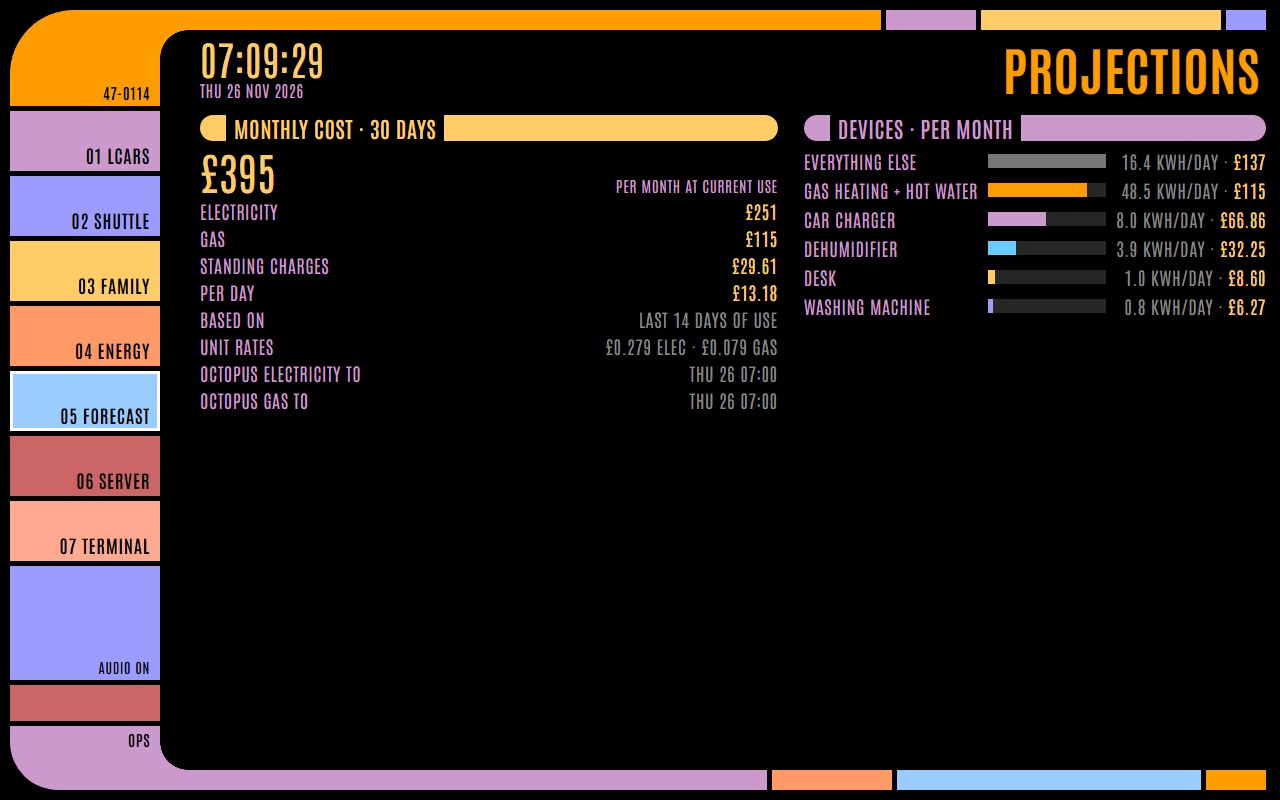
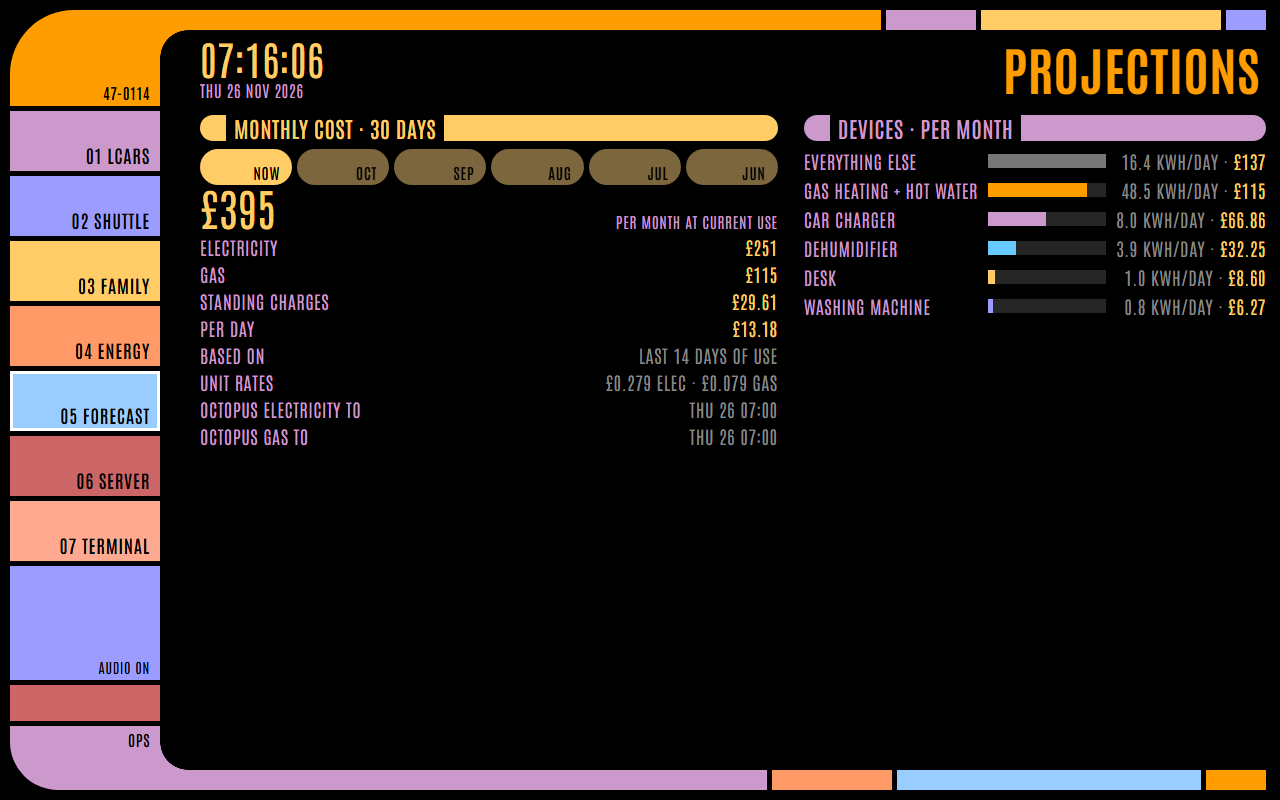
LCARS demo: forecast page compares past months with Octopus

Changed region(s): [[0.1562, 0.1875, 0.625, 0.5625], [0.1875, 0.0625, 0.25, 0.0938]]

diff --git a/lcars/tablet-panels.js b/lcars/tablet-panels.js
@@ -283,6 +283,62 @@ function tpForecastModel(cfg, day, hour, states, now, monthDays) {
   };
 }
 
+// ---- A past calendar month: same calculation, compared with Octopus -------------
+// hour: hourly stats covering [start, end); mon: monthly stats (Octopus kWh and cost).
+// Devices are costed at today's unit rates, like the forecast; "Octopus" is the cost Octopus
+// recorded for that month's units. Standing charges use today's daily rate for both.
+function tpMonthModel(cfg, hour, mon, states, start, end) {
+  var num = function (id) { var s = id && states[id]; var v = s ? parseFloat(s.state) : NaN; return isNaN(v) ? null : v; };
+  var ms = function (x) { return typeof x.start === 'number' ? x.start : Date.parse(x.start); };
+  var DY = 864e5, inM = function (t) { return t >= start && t < end; };
+  var days = Math.round((end - start) / DY);
+  var rateE = num(cfg.elec.rate), rateG = num(cfg.gas.rate);
+  if (rateE == null) rateE = 0.28;
+  if (rateG == null) rateG = 0.07;
+  var stE = num(cfg.elec.standing) || 0, stG = num(cfg.gas.standing) || 0;
+  var series = function (id, f) { var o = {}; (hour[id] || []).forEach(function (x) { var t = ms(x), v = f(x); if (v != null && inM(t)) o[t] = v; }); return o; };
+  var chg = function (cap) { return function (x) { return x.change == null ? null : Math.min(cap, Math.max(0, x.change)); }; };
+  var total = function (o) { var s = 0; Object.keys(o).forEach(function (t) { s += o[t]; }); return s; };
+  var first = function (o) { var k = Object.keys(o).map(Number); return k.length ? Math.min.apply(null, k) : null; };
+  var mval = function (id) {   // Octopus monthly figure for this month
+    var v = null; (mon[id] || []).forEach(function (x) { if (inM(ms(x)) && x.change != null) v = (v || 0) + x.change; }); return v;
+  };
+
+  var houseE = series(cfg.elec.kwh, chg(1e9)), houseG = series(cfg.gas.kwh, chg(1e9));
+  var houseKwh = total(houseE), gasKwh = total(houseG), houseFirst = first(houseE);
+  var devices = [], plugsInHouse = 0, plugs = 0;
+  (cfg.devices || []).forEach(function (d) {
+    var cap = d.max_kw || 10;
+    var ser = d.energy ? series(d.energy, chg(cap))
+      : series(d.power, function (x) { return x.mean == null ? null : Math.min(cap, Math.max(0, x.mean * (d.kw ? 1 : 0.001))); });
+    var k = Object.keys(ser);
+    if (!k.length) { devices.push({ name: d.name, color: d.color, kwh: null, cost: null }); return; }
+    var kwh = total(ser);
+    k.forEach(function (t) { if (houseE[t] != null) plugsInHouse += ser[t]; });
+    plugs += kwh;
+    var f0 = first(ser);
+    devices.push({ name: d.name, color: d.color, kwh: kwh, cost: kwh * rateE, since: f0 > start + DY ? f0 : null });
+  });
+  var rest = Object.keys(houseE).length ? Math.max(0, houseKwh - plugsInHouse) : null;
+  devices.push({ name: 'Everything else', color: '#777', kwh: rest, cost: rest == null ? null : rest * rateE });
+  devices.push({ name: 'Gas heating + hot water', color: '#ff9c00', kwh: Object.keys(houseG).length ? gasKwh : null,
+    cost: Object.keys(houseG).length ? gasKwh * rateG : null });
+  devices.sort(function (a, b) { return (b.cost || 0) - (a.cost || 0); });
+
+  var standing = (stE + stG) * days;
+  var calcE = Math.max(houseKwh, plugs) * rateE, calcG = gasKwh * rateG;
+  var octE = mval(cfg.elec.cost), octG = mval(cfg.gas.cost), octEk = mval(cfg.elec.kwh), octGk = mval(cfg.gas.kwh);
+  var octTotal = octE == null && octG == null ? null : (octE || 0) + (octG || 0) + standing;
+  var calcTotal = calcE + calcG + standing;
+  return {
+    start: start, end: end, days: days, devices: devices, rateE: rateE, rateG: rateG, standing: standing,
+    calc: { elec: calcE, gas: calcG, total: calcTotal },
+    octopus: { elec: octE, gas: octG, total: octTotal, rateE: octE != null && octEk ? octE / octEk : null, rateG: octG != null && octGk ? octG / octGk : null },
+    diff: octTotal == null ? null : calcTotal - octTotal,
+    cover: Object.keys(houseE).length / (days * 24), houseFrom: houseFirst != null && houseFirst > start + DY ? houseFirst : null,
+  };
+}
+
 // ---- Sound: everything is synthesised with Web Audio, no sound files ------
 var tpAudio = {
   ctx: null,
@@ -815,6 +871,9 @@ button:active { filter:brightness(1.35); }
 .mbar { display:block; height:14px; background:#262626; position:relative; }
 .mbar i { position:absolute; top:0; bottom:0; left:0; }
 .bars .v .dim { color:#888; } .bars .k em { color:#ffcc66; font-style:normal; }
+.cmp { display:grid; grid-template-columns:1fr auto auto; gap:3px 18px; font-size:18px; margin:4px 0 8px; }
+.cmp .h { color:#888; font-size:14px; text-align:right; } .cmp .k { color:#cc99cc; } .cmp .k.t { color:#ff9c00; }
+.cmp .v { color:#ffcc66; text-align:right; font-variant-numeric:tabular-nums; }
 .ctr { display:grid; grid-template-columns:1fr auto auto; gap:2px 14px; font-size:17px; }
 .ctr .cn { color:#ff9c00; white-space:nowrap; overflow:hidden; text-overflow:ellipsis; min-width:0; }
 .ctr .cv { color:#ffcc66; text-align:right; font-variant-numeric:tabular-nums; white-space:nowrap; }
@@ -988,6 +1047,14 @@ class LcarsPanelCard extends TabletPanelBase {
 
   _ui(what) {
     if (what.indexOf('car:') === 0) { this._carAction(what.split(':')[1], what.split(':')[2]); return; }
+    if (what.indexOf('fc:m:') === 0) {   // forecast page: 'now' or a past month's start time
+      var sel = what.slice(5);
+      this._fcSel = sel === 'now' ? null : +sel;
+      if (this._fcSel) this._fcFetchMonth(this._fcSel);
+      if (this._audioOn) tpAudio.seq(LCARS_SFX.tap, 'triangle', 0.2);
+      this._render();
+      return;
+    }
     if (what.indexOf('en:days:') === 0) {
       var nd = +what.split(':')[2];
       if ([1, 7, 30].indexOf(nd) < 0 || nd === this._enDays()) return;
@@ -1281,6 +1348,47 @@ class LcarsPanelCard extends TabletPanelBase {
     return this._enDaysV;
   }
 
+  // Forecast page: which past months Octopus has figures for (up to 6), checked hourly.
+  _fcFetchMonths() {
+    var e = this._config.energy, self = this;
+    if (!e || this._fcMonBusy || !this._hass || !this._hass.callWS) return;
+    this._fcMonBusy = true;
+    var now = new Date(), from = new Date(now.getFullYear(), now.getMonth() - 6, 1), thisM = new Date(now.getFullYear(), now.getMonth(), 1).getTime();
+    this._hass.callWS({ type: 'recorder/statistics_during_period', start_time: from.toISOString(), end_time: new Date(thisM).toISOString(),
+      statistic_ids: [e.elec.cost, e.gas.cost], period: 'month', types: ['change'] })
+      .then(function (r) {
+        var seen = {};
+        [e.elec.cost, e.gas.cost].forEach(function (id) {
+          ((r || {})[id] || []).forEach(function (x) {
+            var t = typeof x.start === 'number' ? x.start : Date.parse(x.start), d = new Date(t + 12 * 36e5);   // noon: dodge DST edges
+            if (x.change) seen[d.getFullYear() + '-' + (d.getMonth() + 1)] = new Date(d.getFullYear(), d.getMonth(), 1).getTime();
+          });
+        });
+        self._fcMon = { list: Object.keys(seen).map(function (k) { return seen[k]; }).sort(function (a, b) { return b - a; }), at: Date.now() };
+      })
+      .catch(function () { self._fcMon = { list: (self._fcMon || {}).list || [], at: Date.now() }; })
+      .then(function () { self._fcMonBusy = false; if (self._config.page === 'forecast') self._render(); });
+  }
+
+  // Forecast page: the hourly and monthly history for one past month (kept for an hour).
+  _fcFetchMonth(start) {
+    var e = this._config.energy, self = this;
+    this._fcData = this._fcData || {};
+    var have = this._fcData[start];
+    if (!e || (have && (have.busy || Date.now() - have.at < 36e5)) || !this._hass || !this._hass.callWS) return;
+    this._fcData[start] = { busy: true, at: 0, hour: have && have.hour, mon: have && have.mon };
+    var d = new Date(start), end = new Date(d.getFullYear(), d.getMonth() + 1, 1).getTime();
+    var hourIds = [e.elec.kwh, e.gas.kwh].concat((e.devices || []).map(function (x) { return x.energy || x.power; }));
+    var q = function (ids, period) {
+      return self._hass.callWS({ type: 'recorder/statistics_during_period', start_time: new Date(start).toISOString(), end_time: new Date(end).toISOString(),
+        statistic_ids: ids, period: period, types: ['change', 'mean'] });
+    };
+    Promise.all([q(hourIds, 'hour'), q([e.elec.kwh, e.elec.cost, e.gas.kwh, e.gas.cost], 'month')])
+      .then(function (r) { self._fcData[start] = { hour: r[0] || {}, mon: r[1] || {}, at: Date.now() }; })
+      .catch(function () { self._fcData[start] = { hour: {}, mon: {}, at: Date.now(), err: true }; })
+      .then(function () { if (self._config.page === 'forecast') self._render(); });
+  }
+
   _fetchEnergy() {
     var e = this._config.energy, self = this;
     if (!e || this._enBusy || !this._hass || !this._hass.callWS) return;
@@ -1382,8 +1490,8 @@ class LcarsPanelCard extends TabletPanelBase {
     }
     var states = {};
     this._energyIds().forEach(function (id) { if (self._st(id)) states[id] = self._st(id); });
-    var f = tpForecastModel(e, this._en.day, this._en.hour, states, new Date());
     var MON = ['JAN', 'FEB', 'MAR', 'APR', 'MAY', 'JUN', 'JUL', 'AUG', 'SEP', 'OCT', 'NOV', 'DEC'];
+    var MONTHS = ['January', 'February', 'March', 'April', 'May', 'June', 'July', 'August', 'September', 'October', 'November', 'December'];
     var DAYS = ['SUN', 'MON', 'TUE', 'WED', 'THU', 'FRI', 'SAT'];
     var gbp = function (v) { return v == null || isNaN(v) ? '--' : '£' + (v >= 100 ? Math.round(v) : v.toFixed(2)); };
     var kwh = function (v) { return v == null ? '--' : (v >= 100 ? Math.round(v) : v.toFixed(1)) + ' KWH'; };
@@ -1393,6 +1501,64 @@ class LcarsPanelCard extends TabletPanelBase {
         return '<span class="k">' + esc(r[0]) + '</span><span class="v' + (r[2] ? ' ' + r[2] : '') + '">' + esc(r[1]) + '</span>';
       }).join('') + '</div>';
     };
+    var bars = function (list, val) {
+      var mx = 0; list.forEach(function (r) { mx = Math.max(mx, r.cost || 0); });
+      return '<div class="bars">' + list.map(function (r) {
+        var pct = mx && r.cost != null ? r.cost / mx * 100 : 0;
+        return '<span class="k">' + esc(r.name) + (r.since ? ' <em>*</em>' : '') + '</span>' +
+          '<span class="mbar"><i style="width:' + Math.min(100, pct) + '%;background:' + (r.color || '#99ccff') + '"></i></span>' +
+          '<span class="v">' + (r.cost == null ? '<span class="dim">NO DATA</span>' : val(r)) + '</span>';
+      }).join('') + '</div>';
+    };
+    var sinceNote = function (list) {
+      var s = list.filter(function (r) { return r.since; });
+      if (!s.length) return '';
+      var d0 = new Date(Math.min.apply(null, s.map(function (r) { return r.since; })));
+      return kv([['* Fewer readings', 'ONLY SINCE ' + d0.getDate() + ' ' + MON[d0.getMonth()], 'dim']]);
+    };
+
+    // Month buttons: now, then past months Octopus has figures for.
+    var past = (this._fcMon && this._fcMon.list) || [], sel = this._fcSel && past.indexOf(this._fcSel) >= 0 ? this._fcSel : null;
+    var chip = function (label, ui, on) {
+      return '<button class="b' + (on ? '' : ' off') + '" data-ui="fc:m:' + ui + '" style="background:' + LC[3] + '"><span class="l">' + label + '</span></button>';
+    };
+    var chips = past.length ? '<div class="chips">' + chip('Now', 'now', !sel) +
+      past.slice(0, 5).map(function (t) { return chip(MON[new Date(t).getMonth()], t, sel === t); }).join('') + '</div>' : '';
+
+    if (sel) {
+      var pd = this._fcData && this._fcData[sel];
+      if (!pd || !pd.hour) {
+        if (!pd) this._fcFetchMonth(sel);
+        return [{ title: MONTHS[new Date(sel).getMonth()] + ' ' + new Date(sel).getFullYear(), color: LC[3],
+          html: chips + kv([['Status', 'LOADING HISTORY...']]) }];
+      }
+      var dd = new Date(sel), endT = new Date(dd.getFullYear(), dd.getMonth() + 1, 1).getTime();
+      var p = tpMonthModel(e, pd.hour, pd.mon, states, sel, endT);
+      var diffTxt = p.diff == null ? '--' : (p.diff >= 0 ? '+' : '−') + gbp(Math.abs(p.diff)) +
+        (p.octopus.total ? ' (' + (p.diff >= 0 ? '+' : '−') + Math.abs(p.diff / p.octopus.total * 100).toFixed(1) + '%)' : '');
+      var cmp = '<div class="cmp"><span></span><span class="h">CALCULATED</span><span class="h">OCTOPUS</span>' +
+        [['Electricity', p.calc.elec, p.octopus.elec], ['Gas', p.calc.gas, p.octopus.gas], ['Standing charges', p.standing, p.standing],
+          ['Total', p.calc.total, p.octopus.total]].map(function (r) {
+          return '<span class="k' + (r[0] === 'Total' ? ' t' : '') + '">' + esc(r[0]) + '</span><span class="v">' + gbp(r[1]) + '</span><span class="v">' + gbp(r[2]) + '</span>';
+        }).join('') + '</div>';
+      var rows = [
+        ['Difference', diffTxt, p.diff == null ? '' : Math.abs(p.diff) > 5 ? 'warn' : 'hi'],
+        ['Unit rates used', '£' + p.rateE.toFixed(3) + ' ELEC · £' + p.rateG.toFixed(3) + ' GAS', 'dim'],
+        ['Octopus average', (p.octopus.rateE ? '£' + p.octopus.rateE.toFixed(3) : '--') + ' ELEC · ' + (p.octopus.rateG ? '£' + p.octopus.rateG.toFixed(3) : '--') + ' GAS', 'dim'],
+        ['Standing charges at', "TODAY'S RATE", 'dim']];
+      if (p.houseFrom) rows.push(['Octopus data from', when(p.houseFrom), 'warn']);
+      else if (p.cover < 0.97) rows.push(['Octopus hours', Math.round(p.cover * 100) + '% OF MONTH', 'warn']);
+      if (pd.err) rows.push(['Note', 'HISTORY MAY BE INCOMPLETE', 'warn']);
+      var title = MONTHS[dd.getMonth()] + ' ' + dd.getFullYear();
+      return [
+        { title: title + ' · ' + p.days + ' days', html: chips + '<div class="entop"><span class="big">' + gbp(p.calc.total) +
+          '</span><span class="ensrc">CALCULATED · OCTOPUS ' + gbp(p.octopus.total) + '</span></div>' + cmp + kv(rows), color: LC[3] },
+        { title: 'Devices · ' + title.toLowerCase(), color: LC[1], column: 2,
+          html: bars(p.devices, function (r) { return '<span class="dim">' + kwh(r.kwh) + ' · </span>' + gbp(r.cost); }) + sinceNote(p.devices) },
+      ];
+    }
+
+    var f = tpForecastModel(e, this._en.day, this._en.hour, states, new Date());
 
     // Summary
     var notes = [['Electricity', gbp(f.elecCost)], ['Gas', gbp(f.gasCost)], ['Standing charges', gbp(f.standing)],
@@ -1402,22 +1568,10 @@ class LcarsPanelCard extends TabletPanelBase {
     if (f.houseAsOf) notes.push(['Octopus electricity to', when(f.houseAsOf), 'dim']);
     if (f.gasAsOf) notes.push(['Octopus gas to', when(f.gasAsOf), 'dim']);
     if (this._en.err) notes.push(['Note', 'HISTORY MAY BE STALE', 'warn']);
-    var sum = '<div class="entop"><span class="big">' + gbp(f.total) + '</span><span class="ensrc">PER MONTH AT CURRENT USE</span></div>' + kv(notes);
+    var sum = chips + '<div class="entop"><span class="big">' + gbp(f.total) + '</span><span class="ensrc">PER MONTH AT CURRENT USE</span></div>' + kv(notes);
 
     // Devices: monthly cost, with the daily use behind it.
-    var mx = 0; f.devices.forEach(function (r) { mx = Math.max(mx, r.cost || 0); });
-    var dev = '<div class="bars">' + f.devices.map(function (r) {
-      var pct = mx && r.cost != null ? r.cost / mx * 100 : 0;
-      return '<span class="k">' + esc(r.name) + (r.since ? ' <em>*</em>' : '') + '</span>' +
-        '<span class="mbar"><i style="width:' + Math.min(100, pct) + '%;background:' + (r.color || '#99ccff') + '"></i></span>' +
-        '<span class="v">' + (r.cost == null ? '<span class="dim">NO DATA</span>' :
-          '<span class="dim">' + kwh(r.perDay) + '/DAY · </span>' + gbp(r.cost)) + '</span>';
-    }).join('') + '</div>';
-    var since = f.devices.filter(function (r) { return r.since; });
-    if (since.length) {
-      var d0 = new Date(Math.min.apply(null, since.map(function (r) { return r.since; })));
-      dev += kv([['* Fewer readings', 'ONLY SINCE ' + d0.getDate() + ' ' + MON[d0.getMonth()], 'dim']]);
-    }
+    var dev = bars(f.devices, function (r) { return '<span class="dim">' + kwh(r.perDay) + '/DAY · </span>' + gbp(r.cost); }) + sinceNote(f.devices);
 
     return [
       { title: 'Monthly cost · ' + f.days + ' days', html: sum, color: LC[3] },
@@ -1543,6 +1697,7 @@ class LcarsPanelCard extends TabletPanelBase {
     var root = this.shadowRoot, self = this;
     if (this._config && this._config.page === 'server' && (!this._ctr || Date.now() - this._ctr.at > 15000)) this._fetchContainers();
     if (this._config && this._enPage() && this._hass && (!this._en || Date.now() - this._en.at > 600000)) this._fetchEnergy();
+    if (this._config && this._config.page === 'forecast' && this._hass && (!this._fcMon || Date.now() - this._fcMon.at > 36e5)) this._fcFetchMonths();
     if (this._config && this._config.page === 'car' && this._hass && (!this._cc || Date.now() - this._cc.at > 600000)) this._fetchCarCost();
     // Map made while hidden: resize and refit once it is actually on screen.
     if (this._map && this._mapBox) {

diff --git a/lcars/index.html b/lcars/index.html
@@ -48,11 +48,14 @@
     var day = Math.max(5, 80 - 4.5 * T); return gasProfile[h] / 20.2 * day * (0.85 + rnd(i * 11) * 0.3); }
 
   var RATE_E = 0.2786, RATE_G = 0.0791;
+  // Unit rates were a little lower in earlier months, so past months differ from today's prices.
+  function monthsAgo(t) { var a = new Date(), b = new Date(t); return (a.getFullYear() - b.getFullYear()) * 12 + a.getMonth() - b.getMonth(); }
+  function rateAt(base, t) { return base * (1 - 0.015 * Math.min(6, monthsAgo(t))); }
   var series = {
     'demo:elec_kwh': function (t) { return { change: elecAt(t) }; },
-    'demo:elec_cost': function (t) { return { change: elecAt(t) * RATE_E }; },
+    'demo:elec_cost': function (t) { return { change: elecAt(t) * rateAt(RATE_E, t) }; },
     'demo:gas_kwh': function (t) { return { change: gasAt(t) }; },
-    'demo:gas_cost': function (t) { return { change: gasAt(t) * RATE_G }; },
+    'demo:gas_cost': function (t) { return { change: gasAt(t) * rateAt(RATE_G, t) }; },
     'sensor.demo_outdoor': function (t) { return { mean: tempAt(t) }; },
     'sensor.demo_charger_power': function (t) { return { mean: devAt('car', t) }; },
     'sensor.washer_energy': function (t) { return { change: devAt('wash', t) }; },
@@ -61,8 +64,21 @@
   };
   // Answers recorder/statistics_during_period from the series above.
   function stats(m) {
-    var hourly = m.period !== 'day', out = {};
-    var start = Date.parse(m.start_time), end = Date.now();
+    var hourly = m.period === 'hour', out = {};
+    var start = Date.parse(m.start_time), end = Math.min(Date.now(), m.end_time ? Date.parse(m.end_time) : Infinity);
+    if (m.period === 'month') {   // calendar months, summed from the hourly series
+      m.statistic_ids.forEach(function (id) {
+        var f = series[id]; if (!f) return;
+        var rows = [], d = new Date(start); d.setDate(1); d.setHours(0, 0, 0, 0);
+        for (; d.getTime() < end; d = new Date(d.getFullYear(), d.getMonth() + 1, 1)) {
+          var m0 = d.getTime(), m1 = Math.min(end, new Date(d.getFullYear(), d.getMonth() + 1, 1).getTime()), ch = 0;
+          for (var t = m0; t + HOUR <= m1; t += HOUR) { var v = f(t); if (v.change != null) ch += v.change; }
+          rows.push({ start: m0, end: m1, change: ch });
+        }
+        out[id] = rows;
+      });
+      return out;
+    }
     m.statistic_ids.forEach(function (id) {
       var f = series[id]; if (!f) return;
       var rows = [];

diff --git a/posts/lcars-dashboard.html b/posts/lcars-dashboard.html
@@ -28,7 +28,7 @@
   <li>Car: charge level, charge limit, defrost, departure times, tyres and locks, and how much home charging has cost since payday</li>
   <li>Family: a map showing where everyone is, how far from home and whether they're heading back</li>
   <li>Energy: today's cost (estimated, because the meter data arrives a day or two late), 30 days of electricity and gas, which devices use the most over the last day, week or month, and the biggest spikes</li>
-  <li>Forecast: what each device would cost over a whole month at its recent rate of use</li>
+  <li>Forecast: what each device would cost over a whole month at its recent rate of use, and for past months what each device actually used, with the total set against what Octopus charged</li>
   <li>Server: CPU, memory, disks and Docker containers on the home server</li>
   <li>Terminal: the same controls in a green-screen terminal style</li>
 </ul>

diff --git a/drafts/lcars-dashboard.md b/drafts/lcars-dashboard.md
@@ -23,7 +23,7 @@ The buttons down the left side switch between pages.
 - Car: charge level, charge limit, defrost, departure times, tyres and locks, and how much home charging has cost since payday
 - Family: a map showing where everyone is, how far from home and whether they're heading back
 - Energy: today's cost (estimated, because the meter data arrives a day or two late), 30 days of electricity and gas, which devices use the most over the last day, week or month, and the biggest spikes
-- Forecast: what each device would cost over a whole month at its recent rate of use
+- Forecast: what each device would cost over a whole month at its recent rate of use, and for past months what each device actually used, with the total set against what Octopus charged
 - Server: CPU, memory, disks and Docker containers on the home server
 - Terminal: the same controls in a green-screen terminal style
 
